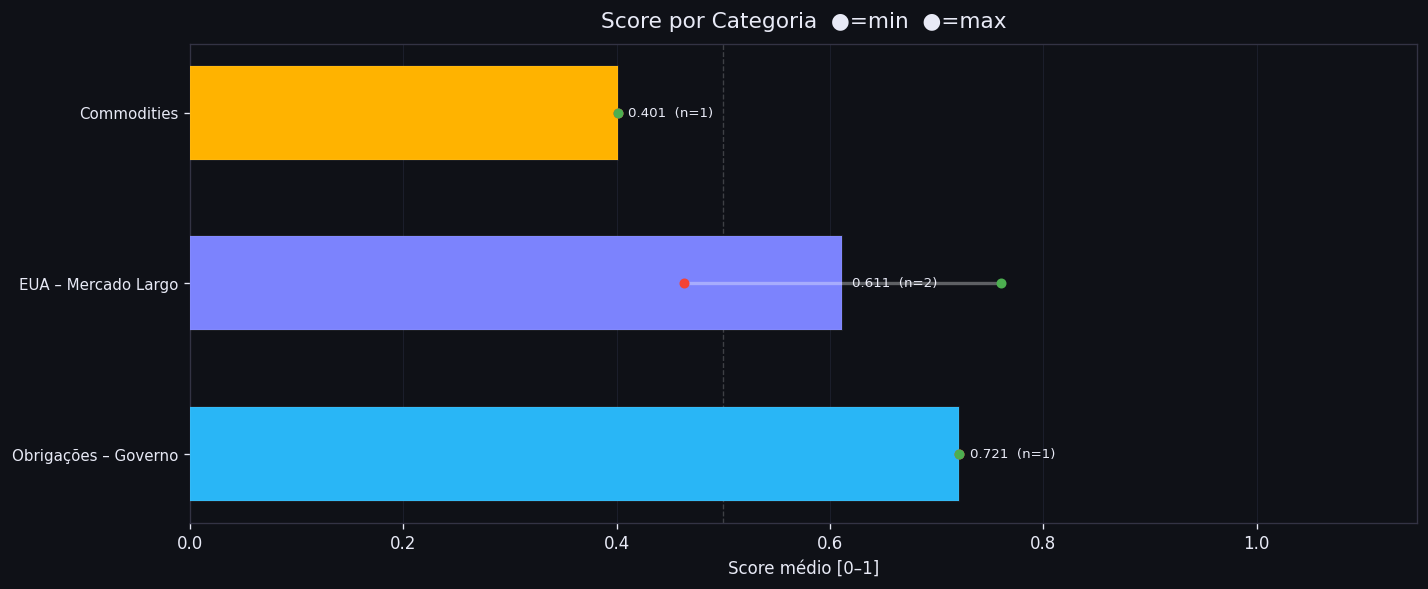
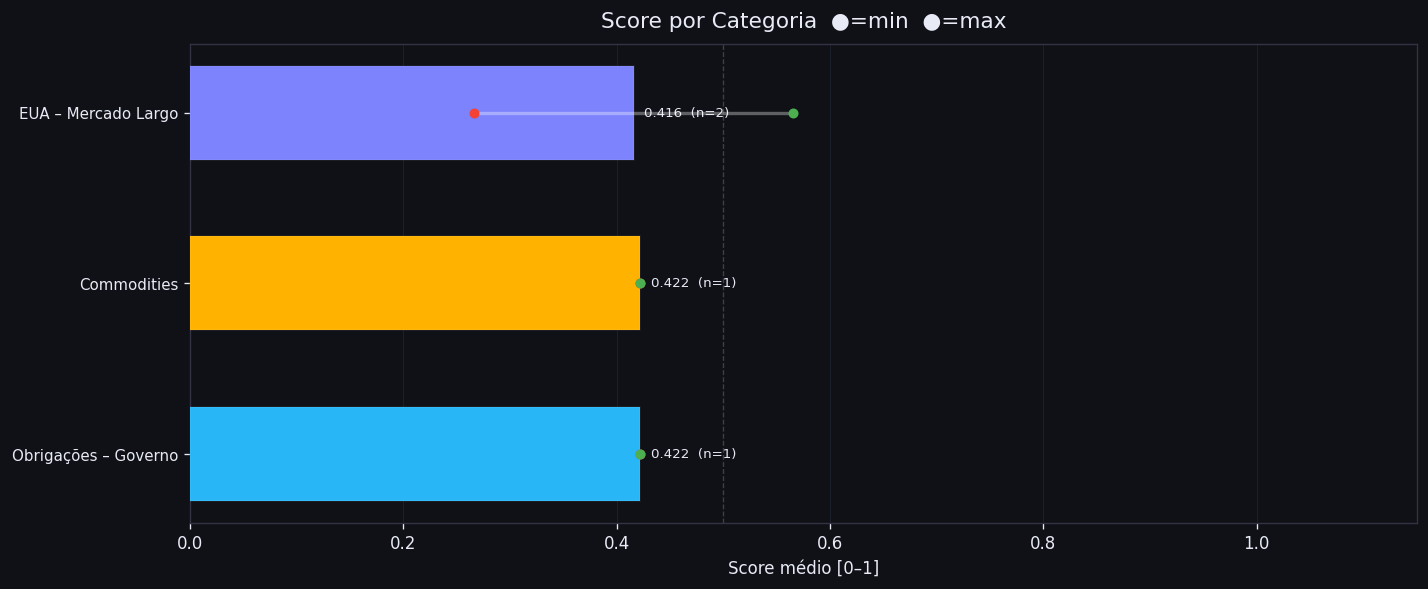
chore: resolver conflitos em data/ após rebase (dados de exemplo locais)

Changed region(s): [[0.0, 0.3973, 0.7087, 0.5806], [0.0, 0.0917, 0.5546, 0.275], [0.4314, 0.6723, 0.7395, 0.8557]]

diff --git a/data/reports/daily_20260525.html b/data/reports/daily_20260525.html
@@ -12,41 +12,24 @@
       Sinais de Compra – Próximas Semanas
     </h2>
     <p style="color:#666;font-size:12px;margin-top:-8px">
-      ETFs com confluência de indicadores técnicos favoráveis · <span style="color:#4caf50;font-weight:bold">2 FORTE COMPRA</span> · <span style="color:#8bc34a">0 COMPRA</span> · <span style="color:#ffd54f">0 POTENCIAL</span> — de 4 ETFs analisados
+      ETFs com confluência de indicadores técnicos favoráveis · <span style="color:#4caf50;font-weight:bold">0 FORTE COMPRA</span> · <span style="color:#8bc34a">1 COMPRA</span> · <span style="color:#ffd54f">0 POTENCIAL</span> — de 4 ETFs analisados
     </p>
     
-        <div style="background:#1b3a2a;border-left:4px solid #4caf50;
+        <div style="background:#1e2f1a;border-left:4px solid #8bc34a;
                     padding:14px 18px;margin:8px 0;border-radius:4px">
           <div style="display:flex;justify-content:space-between;align-items:center;flex-wrap:wrap;gap:8px">
             <div>
-              <span style="color:#e8eaf6;font-size:19px;font-weight:bold">TLT</span>
-              <span style="color:#888;font-size:11px;margin-left:8px">20+ Year Treasury (iShares)</span>
-              &nbsp;<span style="background:#4caf50;color:#000;padding:3px 10px;border-radius:12px;font-size:11px;font-weight:bold;letter-spacing:0.5px">FORTE COMPRA</span>
-              <span style="color:#29b6f6;font-size:11px;margin-left:10px">● Obrigações – Governo</span>
-            </div>
-          </div>
-          <div style="color:#bbb;font-size:12px;margin-top:8px;line-height:1.6">
-            Tendência e momentum alinhados (sma20>sma50, macd+). entrada não comprometida (ret. semanal 1.3%). rsi em zona óptima de entrada (56).
-          </div>
-          <div style="margin-top:8px;font-size:12px">
-            <span style="color:#aaa">Score:</span> <span style="color:#4caf50;font-weight:bold">0.721</span>&nbsp;&nbsp;<span style="color:#aaa">Ret. 3M:</span> <span style="color:#4caf50">9.22%</span>&nbsp;&nbsp;<span style="color:#aaa">Ret. 5d:</span> <span style="color:#4caf50">1.25%</span>&nbsp;&nbsp;<span style="color:#aaa">RSI:</span> <span style="color:#4caf50">56</span>&nbsp;&nbsp;<span style="color:#aaa">RS vs SPY:</span> <span style="color:#4caf50">✓ superando SPY</span>&nbsp;&nbsp;<span style="color:#aaa">Δ Score:</span> <span style="color:#f44336">+nan</span>&nbsp;&nbsp;<span style="color:#aaa">Drawdown:</span> <span style="color:#4caf50">-0.7%</span>
-          </div>
-        </div>
-        <div style="background:#1b3a2a;border-left:4px solid #4caf50;
-                    padding:14px 18px;margin:8px 0;border-radius:4px">
-          <div style="display:flex;justify-content:space-between;align-items:center;flex-wrap:wrap;gap:8px">
-            <div>
-              <span style="color:#e8eaf6;font-size:19px;font-weight:bold">QQQ</span>
-              <span style="color:#888;font-size:11px;margin-left:8px">Nasdaq 100 (Invesco)</span>
-              &nbsp;<span style="background:#4caf50;color:#000;padding:3px 10px;border-radius:12px;font-size:11px;font-weight:bold;letter-spacing:0.5px">FORTE COMPRA</span>
+              <span style="color:#e8eaf6;font-size:19px;font-weight:bold">IVV</span>
+              <span style="color:#888;font-size:11px;margin-left:8px">S&P 500 (iShares Core)</span>
+              &nbsp;<span style="background:#8bc34a;color:#000;padding:3px 10px;border-radius:12px;font-size:11px;font-weight:bold;letter-spacing:0.5px">COMPRA</span>
               <span style="color:#7c83fd;font-size:11px;margin-left:10px">● EUA – Mercado Largo</span>
             </div>
           </div>
           <div style="color:#bbb;font-size:12px;margin-top:8px;line-height:1.6">
-            Tendência e momentum alinhados (sma20>sma50, macd+). entrada não comprometida (ret. semanal 2.7%). força relativa positiva vs spy (últimos 21 dias).
+            Tendência e momentum alinhados (sma20>sma50, macd+). entrada não comprometida (ret. semanal 0.9%). rsi em zona óptima de entrada (53).
           </div>
           <div style="margin-top:8px;font-size:12px">
-            <span style="color:#aaa">Score:</span> <span style="color:#4caf50;font-weight:bold">0.760</span>&nbsp;&nbsp;<span style="color:#aaa">Ret. 3M:</span> <span style="color:#4caf50">13.77%</span>&nbsp;&nbsp;<span style="color:#aaa">Ret. 5d:</span> <span style="color:#4caf50">2.67%</span>&nbsp;&nbsp;<span style="color:#aaa">RSI:</span> <span style="color:#4caf50">60</span>&nbsp;&nbsp;<span style="color:#aaa">RS vs SPY:</span> <span style="color:#4caf50">✓ superando SPY</span>&nbsp;&nbsp;<span style="color:#aaa">Δ Score:</span> <span style="color:#f44336">+nan</span>&nbsp;&nbsp;<span style="color:#aaa">Drawdown:</span> <span style="color:#4caf50">-0.2%</span>
+            <span style="color:#aaa">Score:</span> <span style="color:#4caf50;font-weight:bold">0.565</span>&nbsp;&nbsp;<span style="color:#aaa">Ret. 3M:</span> <span style="color:#f44336">-5.21%</span>&nbsp;&nbsp;<span style="color:#aaa">Ret. 5d:</span> <span style="color:#4caf50">0.89%</span>&nbsp;&nbsp;<span style="color:#aaa">RSI:</span> <span style="color:#4caf50">53</span>&nbsp;&nbsp;<span style="color:#aaa">RS vs SPY:</span> <span style="color:#f44336">✗ abaixo SPY</span>&nbsp;&nbsp;<span style="color:#aaa">Δ Score:</span> <span style="color:#f44336">+nan</span>&nbsp;&nbsp;<span style="color:#aaa">Drawdown:</span> <span style="color:#f44336">-9.4%</span>
           </div>
         </div>
   </div>
@@ -66,7 +49,7 @@
         </td>
         <td style="width:34%;vertical-align:top;padding:8px;border-left:1px solid #1e2130">
           <div style="color:#78909c;font-size:12px;font-weight:bold;margin-bottom:6px">→ NEUTRO</div>
-          <span style="background:#1a1d2e;border:1px solid #29b6f6;color:#29b6f6;padding:4px 10px;border-radius:12px;font-size:11px;margin:3px;display:inline-block">→ Obrigações – Governo <span style="color:#666">(0.72)</span></span><span style="background:#1a1d2e;border:1px solid #7c83fd;color:#7c83fd;padding:4px 10px;border-radius:12px;font-size:11px;margin:3px;display:inline-block">→ EUA – Mercado Largo <span style="color:#666">(0.61)</span></span><span style="background:#1a1d2e;border:1px solid #ffb300;color:#ffb300;padding:4px 10px;border-radius:12px;font-size:11px;margin:3px;display:inline-block">→ Commodities <span style="color:#666">(0.40)</span></span>
+          <span style="background:#1a1d2e;border:1px solid #29b6f6;color:#29b6f6;padding:4px 10px;border-radius:12px;font-size:11px;margin:3px;display:inline-block">→ Obrigações – Governo <span style="color:#666">(0.42)</span></span><span style="background:#1a1d2e;border:1px solid #ffb300;color:#ffb300;padding:4px 10px;border-radius:12px;font-size:11px;margin:3px;display:inline-block">→ Commodities <span style="color:#666">(0.42)</span></span><span style="background:#1a1d2e;border:1px solid #7c83fd;color:#7c83fd;padding:4px 10px;border-radius:12px;font-size:11px;margin:3px;display:inline-block">→ EUA – Mercado Largo <span style="color:#666">(0.41)</span></span>
         </td>
         <td style="width:33%;vertical-align:top;padding:8px;border-left:1px solid #1e2130">
           <div style="color:#f44336;font-size:12px;font-weight:bold;margin-bottom:6px">▼ MOMENTUM NEGATIVO</div>
@@ -85,7 +68,7 @@
   <!-- RESUMO POR CATEGORIA -->
   <div style="background:#0d1021;border-radius:8px;padding:20px;margin:20px 0">
     <h2 style="color:#7c83fd;margin-top:0;font-size:16px">Resumo por Categoria</h2>
-    <table style="border-collapse:collapse;width:100%;background:#0f1117"><thead><tr><th style="background:#0d1021;color:#7c83fd;padding:7px 12px;text-align:right;font-size:12px">Categoria</th><th style="background:#0d1021;color:#7c83fd;padding:7px 12px;text-align:right;font-size:12px">N</th><th style="background:#0d1021;color:#7c83fd;padding:7px 12px;text-align:right;font-size:12px">Score Méd.</th><th style="background:#0d1021;color:#7c83fd;padding:7px 12px;text-align:right;font-size:12px">Δ Score</th><th style="background:#0d1021;color:#7c83fd;padding:7px 12px;text-align:right;font-size:12px">Mom.</th><th style="background:#0d1021;color:#7c83fd;padding:7px 12px;text-align:right;font-size:12px">Ret. Dia</th><th style="background:#0d1021;color:#7c83fd;padding:7px 12px;text-align:right;font-size:12px">Melhor</th><th style="background:#0d1021;color:#7c83fd;padding:7px 12px;text-align:right;font-size:12px">Pior</th></tr></thead><tbody><tr><td style="padding:6px 12px;border-bottom:1px solid #0d1021;text-align:right;font-size:12px;color:#29b6f6;text-align:left">Obrigações – Governo</td><td style="padding:6px 12px;border-bottom:1px solid #0d1021;text-align:right;font-size:12px;color:#666">1</td><td style="padding:6px 12px;border-bottom:1px solid #0d1021;text-align:right;font-size:12px;color:#4caf50;font-weight:bold">0.721</td><td style="padding:6px 12px;border-bottom:1px solid #0d1021;text-align:right;font-size:12px;color:#f44336">+nan</td><td style="padding:6px 12px;border-bottom:1px solid #0d1021;text-align:right;font-size:12px;color:#78909c;font-size:16px">→</td><td style="padding:6px 12px;border-bottom:1px solid #0d1021;text-align:right;font-size:12px;color:#4caf50">0.32%</td><td style="padding:6px 12px;border-bottom:1px solid #0d1021;text-align:right;font-size:12px;color:#4caf50">0.721</td><td style="padding:6px 12px;border-bottom:1px solid #0d1021;text-align:right;font-size:12px;color:#f44336">0.721</td></tr><tr><td style="padding:6px 12px;border-bottom:1px solid #0d1021;text-align:right;font-size:12px;color:#7c83fd;text-align:left">EUA – Mercado Largo</td><td style="padding:6px 12px;border-bottom:1px solid #0d1021;text-align:right;font-size:12px;color:#666">2</td><td style="padding:6px 12px;border-bottom:1px solid #0d1021;text-align:right;font-size:12px;color:#4caf50;font-weight:bold">0.612</td><td style="padding:6px 12px;border-bottom:1px solid #0d1021;text-align:right;font-size:12px;color:#f44336">+nan</td><td style="padding:6px 12px;border-bottom:1px solid #0d1021;text-align:right;font-size:12px;color:#78909c;font-size:16px">→</td><td style="padding:6px 12px;border-bottom:1px solid #0d1021;text-align:right;font-size:12px;color:#4caf50">1.37%</td><td style="padding:6px 12px;border-bottom:1px solid #0d1021;text-align:right;font-size:12px;color:#4caf50">0.760</td><td style="padding:6px 12px;border-bottom:1px solid #0d1021;text-align:right;font-size:12px;color:#f44336">0.463</td></tr><tr><td style="padding:6px 12px;border-bottom:1px solid #0d1021;text-align:right;font-size:12px;color:#ffb300;text-align:left">Commodities</td><td style="padding:6px 12px;border-bottom:1px solid #0d1021;text-align:right;font-size:12px;color:#666">1</td><td style="padding:6px 12px;border-bottom:1px solid #0d1021;text-align:right;font-size:12px;color:#f44336;font-weight:bold">0.401</td><td style="padding:6px 12px;border-bottom:1px solid #0d1021;text-align:right;font-size:12px;color:#f44336">+nan</td><td style="padding:6px 12px;border-bottom:1px solid #0d1021;text-align:right;font-size:12px;color:#78909c;font-size:16px">→</td><td style="padding:6px 12px;border-bottom:1px solid #0d1021;text-align:right;font-size:12px;color:#4caf50">0.48%</td><td style="padding:6px 12px;border-bottom:1px solid #0d1021;text-align:right;font-size:12px;color:#4caf50">0.401</td><td style="padding:6px 12px;border-bottom:1px solid #0d1021;text-align:right;font-size:12px;color:#f44336">0.401</td></tr></tbody></table>
+    <table style="border-collapse:collapse;width:100%;background:#0f1117"><thead><tr><th style="background:#0d1021;color:#7c83fd;padding:7px 12px;text-align:right;font-size:12px">Categoria</th><th style="background:#0d1021;color:#7c83fd;padding:7px 12px;text-align:right;font-size:12px">N</th><th style="background:#0d1021;color:#7c83fd;padding:7px 12px;text-align:right;font-size:12px">Score Méd.</th><th style="background:#0d1021;color:#7c83fd;padding:7px 12px;text-align:right;font-size:12px">Δ Score</th><th style="background:#0d1021;color:#7c83fd;padding:7px 12px;text-align:right;font-size:12px">Mom.</th><th style="background:#0d1021;color:#7c83fd;padding:7px 12px;text-align:right;font-size:12px">Ret. Dia</th><th style="background:#0d1021;color:#7c83fd;padding:7px 12px;text-align:right;font-size:12px">Melhor</th><th style="background:#0d1021;color:#7c83fd;padding:7px 12px;text-align:right;font-size:12px">Pior</th></tr></thead><tbody><tr><td style="padding:6px 12px;border-bottom:1px solid #0d1021;text-align:right;font-size:12px;color:#29b6f6;text-align:left">Obrigações – Governo</td><td style="padding:6px 12px;border-bottom:1px solid #0d1021;text-align:right;font-size:12px;color:#666">1</td><td style="padding:6px 12px;border-bottom:1px solid #0d1021;text-align:right;font-size:12px;color:#f44336;font-weight:bold">0.422</td><td style="padding:6px 12px;border-bottom:1px solid #0d1021;text-align:right;font-size:12px;color:#f44336">+nan</td><td style="padding:6px 12px;border-bottom:1px solid #0d1021;text-align:right;font-size:12px;color:#78909c;font-size:16px">→</td><td style="padding:6px 12px;border-bottom:1px solid #0d1021;text-align:right;font-size:12px;color:#4caf50">0.00%</td><td style="padding:6px 12px;border-bottom:1px solid #0d1021;text-align:right;font-size:12px;color:#4caf50">0.422</td><td style="padding:6px 12px;border-bottom:1px solid #0d1021;text-align:right;font-size:12px;color:#f44336">0.422</td></tr><tr><td style="padding:6px 12px;border-bottom:1px solid #0d1021;text-align:right;font-size:12px;color:#ffb300;text-align:left">Commodities</td><td style="padding:6px 12px;border-bottom:1px solid #0d1021;text-align:right;font-size:12px;color:#666">1</td><td style="padding:6px 12px;border-bottom:1px solid #0d1021;text-align:right;font-size:12px;color:#f44336;font-weight:bold">0.422</td><td style="padding:6px 12px;border-bottom:1px solid #0d1021;text-align:right;font-size:12px;color:#f44336">+nan</td><td style="padding:6px 12px;border-bottom:1px solid #0d1021;text-align:right;font-size:12px;color:#78909c;font-size:16px">→</td><td style="padding:6px 12px;border-bottom:1px solid #0d1021;text-align:right;font-size:12px;color:#4caf50">0.00%</td><td style="padding:6px 12px;border-bottom:1px solid #0d1021;text-align:right;font-size:12px;color:#4caf50">0.422</td><td style="padding:6px 12px;border-bottom:1px solid #0d1021;text-align:right;font-size:12px;color:#f44336">0.422</td></tr><tr><td style="padding:6px 12px;border-bottom:1px solid #0d1021;text-align:right;font-size:12px;color:#7c83fd;text-align:left">EUA – Mercado Largo</td><td style="padding:6px 12px;border-bottom:1px solid #0d1021;text-align:right;font-size:12px;color:#666">2</td><td style="padding:6px 12px;border-bottom:1px solid #0d1021;text-align:right;font-size:12px;color:#f44336;font-weight:bold">0.415</td><td style="padding:6px 12px;border-bottom:1px solid #0d1021;text-align:right;font-size:12px;color:#f44336">+nan</td><td style="padding:6px 12px;border-bottom:1px solid #0d1021;text-align:right;font-size:12px;color:#78909c;font-size:16px">→</td><td style="padding:6px 12px;border-bottom:1px solid #0d1021;text-align:right;font-size:12px;color:#4caf50">1.96%</td><td style="padding:6px 12px;border-bottom:1px solid #0d1021;text-align:right;font-size:12px;color:#4caf50">0.565</td><td style="padding:6px 12px;border-bottom:1px solid #0d1021;text-align:right;font-size:12px;color:#f44336">0.266</td></tr></tbody></table>
   </div>
 
   <!-- TABELA COMPLETA -->
@@ -96,7 +79,7 @@
         ordenados por score decrescente
       </span>
     </h2>
-    <table style="border-collapse:collapse;width:100%;background:#0f1117"><thead><tr><th style="background:#0d1021;color:#7c83fd;padding:6px 10px;text-align:right;font-size:11px;white-space:nowrap">ETF</th><th style="background:#0d1021;color:#7c83fd;padding:6px 10px;text-align:right;font-size:11px;white-space:nowrap">Nome</th><th style="background:#0d1021;color:#7c83fd;padding:6px 10px;text-align:right;font-size:11px;white-space:nowrap">Categoria</th><th style="background:#0d1021;color:#7c83fd;padding:6px 10px;text-align:right;font-size:11px;white-space:nowrap">Score</th><th style="background:#0d1021;color:#7c83fd;padding:6px 10px;text-align:right;font-size:11px;white-space:nowrap">Δ Score</th><th style="background:#0d1021;color:#7c83fd;padding:6px 10px;text-align:right;font-size:11px;white-space:nowrap">Ret. Dia</th><th style="background:#0d1021;color:#7c83fd;padding:6px 10px;text-align:right;font-size:11px;white-space:nowrap">Ret. 5d</th><th style="background:#0d1021;color:#7c83fd;padding:6px 10px;text-align:right;font-size:11px;white-space:nowrap">Ret. 3M</th><th style="background:#0d1021;color:#7c83fd;padding:6px 10px;text-align:right;font-size:11px;white-space:nowrap">RSI</th><th style="background:#0d1021;color:#7c83fd;padding:6px 10px;text-align:right;font-size:11px;white-space:nowrap">RS vs SPY</th><th style="background:#0d1021;color:#7c83fd;padding:6px 10px;text-align:right;font-size:11px;white-space:nowrap">Vol 21d</th><th style="background:#0d1021;color:#7c83fd;padding:6px 10px;text-align:right;font-size:11px;white-space:nowrap">Trend</th><th style="background:#0d1021;color:#7c83fd;padding:6px 10px;text-align:right;font-size:11px;white-space:nowrap">MACD</th></tr></thead><tbody><tr><td style="padding:4px 10px;border-bottom:1px solid #0d1021;font-size:11px;text-align:right;color:#e8eaf6;text-align:left"><span style="color:#7c83fd">●</span> QQQ</td><td style="padding:4px 10px;border-bottom:1px solid #0d1021;font-size:11px;text-align:right;color:#666;text-align:left;max-width:160px;overflow:hidden">Nasdaq 100 (Invesco)</td><td style="padding:4px 10px;border-bottom:1px solid #0d1021;font-size:11px;text-align:right;color:#7c83fd">EUA – Mercado Largo</td><td style="padding:4px 10px;border-bottom:1px solid #0d1021;font-size:11px;text-align:right;color:#4caf50;font-weight:bold">0.76</td><td style="padding:4px 10px;border-bottom:1px solid #0d1021;font-size:11px;text-align:right;color:#f44336">+nan</td><td style="padding:4px 10px;border-bottom:1px solid #0d1021;font-size:11px;text-align:right;color:#4caf50">1.33%</td><td style="padding:4px 10px;border-bottom:1px solid #0d1021;font-size:11px;text-align:right;color:#4caf50">2.67%</td><td style="padding:4px 10px;border-bottom:1px solid #0d1021;font-size:11px;text-align:right;color:#4caf50">13.77%</td><td style="padding:4px 10px;border-bottom:1px solid #0d1021;font-size:11px;text-align:right;color:#4caf50">60</td><td style="padding:4px 10px;border-bottom:1px solid #0d1021;font-size:11px;text-align:right;color:#4caf50">✓</td><td style="padding:4px 10px;border-bottom:1px solid #0d1021;font-size:11px;text-align:right;color:#e8eaf6">22.46%</td><td style="padding:4px 10px;border-bottom:1px solid #0d1021;font-size:11px;text-align:right;color:#aaa">↑</td><td style="padding:4px 10px;border-bottom:1px solid #0d1021;font-size:11px;text-align:right;color:#aaa">+</td></tr><tr><td style="padding:4px 10px;border-bottom:1px solid #0d1021;font-size:11px;text-align:right;color:#e8eaf6;text-align:left"><span style="color:#29b6f6">●</span> TLT</td><td style="padding:4px 10px;border-bottom:1px solid #0d1021;font-size:11px;text-align:right;color:#666;text-align:left;max-width:160px;overflow:hidden">20+ Year Treasury (iShares)</td><td style="padding:4px 10px;border-bottom:1px solid #0d1021;font-size:11px;text-align:right;color:#29b6f6">Obrigações – Governo</td><td style="padding:4px 10px;border-bottom:1px solid #0d1021;font-size:11px;text-align:right;color:#4caf50;font-weight:bold">0.721</td><td style="padding:4px 10px;border-bottom:1px solid #0d1021;font-size:11px;text-align:right;color:#f44336">+nan</td><td style="padding:4px 10px;border-bottom:1px solid #0d1021;font-size:11px;text-align:right;color:#4caf50">0.32%</td><td style="padding:4px 10px;border-bottom:1px solid #0d1021;font-size:11px;text-align:right;color:#4caf50">1.25%</td><td style="padding:4px 10px;border-bottom:1px solid #0d1021;font-size:11px;text-align:right;color:#4caf50">9.22%</td><td style="padding:4px 10px;border-bottom:1px solid #0d1021;font-size:11px;text-align:right;color:#4caf50">56</td><td style="padding:4px 10px;border-bottom:1px solid #0d1021;font-size:11px;text-align:right;color:#4caf50">✓</td><td style="padding:4px 10px;border-bottom:1px solid #0d1021;font-size:11px;text-align:right;color:#e8eaf6">20.94%</td><td style="padding:4px 10px;border-bottom:1px solid #0d1021;font-size:11px;text-align:right;color:#aaa">↑</td><td style="padding:4px 10px;border-bottom:1px solid #0d1021;font-size:11px;text-align:right;color:#aaa">+</td></tr><tr><td style="padding:4px 10px;border-bottom:1px solid #0d1021;font-size:11px;text-align:right;color:#e8eaf6;text-align:left"><span style="color:#7c83fd">●</span> IVV</td><td style="padding:4px 10px;border-bottom:1px solid #0d1021;font-size:11px;text-align:right;color:#666;text-align:left;max-width:160px;overflow:hidden">S&P 500 (iShares Core)</td><td style="padding:4px 10px;border-bottom:1px solid #0d1021;font-size:11px;text-align:right;color:#7c83fd">EUA – Mercado Largo</td><td style="padding:4px 10px;border-bottom:1px solid #0d1021;font-size:11px;text-align:right;color:#f44336;font-weight:bold">0.463</td><td style="padding:4px 10px;border-bottom:1px solid #0d1021;font-size:11px;text-align:right;color:#f44336">+nan</td><td style="padding:4px 10px;border-bottom:1px solid #0d1021;font-size:11px;text-align:right;color:#4caf50">1.40%</td><td style="padding:4px 10px;border-bottom:1px solid #0d1021;font-size:11px;text-align:right;color:#4caf50">3.50%</td><td style="padding:4px 10px;border-bottom:1px solid #0d1021;font-size:11px;text-align:right;color:#f44336">-10.81%</td><td style="padding:4px 10px;border-bottom:1px solid #0d1021;font-size:11px;text-align:right;color:#4caf50">56</td><td style="padding:4px 10px;border-bottom:1px solid #0d1021;font-size:11px;text-align:right;color:#4caf50">✓</td><td style="padding:4px 10px;border-bottom:1px solid #0d1021;font-size:11px;text-align:right;color:#e8eaf6">20.35%</td><td style="padding:4px 10px;border-bottom:1px solid #0d1021;font-size:11px;text-align:right;color:#aaa">↓</td><td style="padding:4px 10px;border-bottom:1px solid #0d1021;font-size:11px;text-align:right;color:#aaa">+</td></tr><tr><td style="padding:4px 10px;border-bottom:1px solid #0d1021;font-size:11px;text-align:right;color:#e8eaf6;text-align:left"><span style="color:#ffb300">●</span> GLD</td><td style="padding:4px 10px;border-bottom:1px solid #0d1021;font-size:11px;text-align:right;color:#666;text-align:left;max-width:160px;overflow:hidden">Gold (SPDR)</td><td style="padding:4px 10px;border-bottom:1px solid #0d1021;font-size:11px;text-align:right;color:#ffb300">Commodities</td><td style="padding:4px 10px;border-bottom:1px solid #0d1021;font-size:11px;text-align:right;color:#f44336;font-weight:bold">0.401</td><td style="padding:4px 10px;border-bottom:1px solid #0d1021;font-size:11px;text-align:right;color:#f44336">+nan</td><td style="padding:4px 10px;border-bottom:1px solid #0d1021;font-size:11px;text-align:right;color:#4caf50">0.48%</td><td style="padding:4px 10px;border-bottom:1px solid #0d1021;font-size:11px;text-align:right;color:#f44336">-0.99%</td><td style="padding:4px 10px;border-bottom:1px solid #0d1021;font-size:11px;text-align:right;color:#f44336">-0.78%</td><td style="padding:4px 10px;border-bottom:1px solid #0d1021;font-size:11px;text-align:right;color:#4caf50">46</td><td style="padding:4px 10px;border-bottom:1px solid #0d1021;font-size:11px;text-align:right;color:#f44336">✗</td><td style="padding:4px 10px;border-bottom:1px solid #0d1021;font-size:11px;text-align:right;color:#e8eaf6">12.95%</td><td style="padding:4px 10px;border-bottom:1px solid #0d1021;font-size:11px;text-align:right;color:#aaa">↑</td><td style="padding:4px 10px;border-bottom:1px solid #0d1021;font-size:11px;text-align:right;color:#aaa">−</td></tr></tbody></table>
+    <table style="border-collapse:collapse;width:100%;background:#0f1117"><thead><tr><th style="background:#0d1021;color:#7c83fd;padding:6px 10px;text-align:right;font-size:11px;white-space:nowrap">ETF</th><th style="background:#0d1021;color:#7c83fd;padding:6px 10px;text-align:right;font-size:11px;white-space:nowrap">Nome</th><th style="background:#0d1021;color:#7c83fd;padding:6px 10px;text-align:right;font-size:11px;white-space:nowrap">Categoria</th><th style="background:#0d1021;color:#7c83fd;padding:6px 10px;text-align:right;font-size:11px;white-space:nowrap">Score</th><th style="background:#0d1021;color:#7c83fd;padding:6px 10px;text-align:right;font-size:11px;white-space:nowrap">Δ Score</th><th style="background:#0d1021;color:#7c83fd;padding:6px 10px;text-align:right;font-size:11px;white-space:nowrap">Ret. Dia</th><th style="background:#0d1021;color:#7c83fd;padding:6px 10px;text-align:right;font-size:11px;white-space:nowrap">Ret. 5d</th><th style="background:#0d1021;color:#7c83fd;padding:6px 10px;text-align:right;font-size:11px;white-space:nowrap">Ret. 3M</th><th style="background:#0d1021;color:#7c83fd;padding:6px 10px;text-align:right;font-size:11px;white-space:nowrap">RSI</th><th style="background:#0d1021;color:#7c83fd;padding:6px 10px;text-align:right;font-size:11px;white-space:nowrap">RS vs SPY</th><th style="background:#0d1021;color:#7c83fd;padding:6px 10px;text-align:right;font-size:11px;white-space:nowrap">Vol 21d</th><th style="background:#0d1021;color:#7c83fd;padding:6px 10px;text-align:right;font-size:11px;white-space:nowrap">Trend</th><th style="background:#0d1021;color:#7c83fd;padding:6px 10px;text-align:right;font-size:11px;white-space:nowrap">MACD</th></tr></thead><tbody><tr><td style="padding:4px 10px;border-bottom:1px solid #0d1021;font-size:11px;text-align:right;color:#e8eaf6;text-align:left"><span style="color:#7c83fd">●</span> IVV</td><td style="padding:4px 10px;border-bottom:1px solid #0d1021;font-size:11px;text-align:right;color:#666;text-align:left;max-width:160px;overflow:hidden">S&P 500 (iShares Core)</td><td style="padding:4px 10px;border-bottom:1px solid #0d1021;font-size:11px;text-align:right;color:#7c83fd">EUA – Mercado Largo</td><td style="padding:4px 10px;border-bottom:1px solid #0d1021;font-size:11px;text-align:right;color:#4caf50;font-weight:bold">0.565</td><td style="padding:4px 10px;border-bottom:1px solid #0d1021;font-size:11px;text-align:right;color:#f44336">+nan</td><td style="padding:4px 10px;border-bottom:1px solid #0d1021;font-size:11px;text-align:right;color:#4caf50">0.72%</td><td style="padding:4px 10px;border-bottom:1px solid #0d1021;font-size:11px;text-align:right;color:#4caf50">0.89%</td><td style="padding:4px 10px;border-bottom:1px solid #0d1021;font-size:11px;text-align:right;color:#f44336">-5.21%</td><td style="padding:4px 10px;border-bottom:1px solid #0d1021;font-size:11px;text-align:right;color:#4caf50">53</td><td style="padding:4px 10px;border-bottom:1px solid #0d1021;font-size:11px;text-align:right;color:#f44336">✗</td><td style="padding:4px 10px;border-bottom:1px solid #0d1021;font-size:11px;text-align:right;color:#e8eaf6">20.85%</td><td style="padding:4px 10px;border-bottom:1px solid #0d1021;font-size:11px;text-align:right;color:#aaa">↑</td><td style="padding:4px 10px;border-bottom:1px solid #0d1021;font-size:11px;text-align:right;color:#aaa">+</td></tr><tr><td style="padding:4px 10px;border-bottom:1px solid #0d1021;font-size:11px;text-align:right;color:#e8eaf6;text-align:left"><span style="color:#29b6f6">●</span> TLT</td><td style="padding:4px 10px;border-bottom:1px solid #0d1021;font-size:11px;text-align:right;color:#666;text-align:left;max-width:160px;overflow:hidden">20+ Year Treasury (iShares)</td><td style="padding:4px 10px;border-bottom:1px solid #0d1021;font-size:11px;text-align:right;color:#29b6f6">Obrigações – Governo</td><td style="padding:4px 10px;border-bottom:1px solid #0d1021;font-size:11px;text-align:right;color:#f44336;font-weight:bold">0.422</td><td style="padding:4px 10px;border-bottom:1px solid #0d1021;font-size:11px;text-align:right;color:#f44336">+nan</td><td style="padding:4px 10px;border-bottom:1px solid #0d1021;font-size:11px;text-align:right;color:#4caf50">0.00%</td><td style="padding:4px 10px;border-bottom:1px solid #0d1021;font-size:11px;text-align:right;color:#4caf50">0.00%</td><td style="padding:4px 10px;border-bottom:1px solid #0d1021;font-size:11px;text-align:right;color:#4caf50">0.00%</td><td style="padding:4px 10px;border-bottom:1px solid #0d1021;font-size:11px;text-align:right;color:#4caf50">50</td><td style="padding:4px 10px;border-bottom:1px solid #0d1021;font-size:11px;text-align:right;color:#f44336">✗</td><td style="padding:4px 10px;border-bottom:1px solid #0d1021;font-size:11px;text-align:right;color:#e8eaf6">0.00%</td><td style="padding:4px 10px;border-bottom:1px solid #0d1021;font-size:11px;text-align:right;color:#aaa">↓</td><td style="padding:4px 10px;border-bottom:1px solid #0d1021;font-size:11px;text-align:right;color:#aaa">−</td></tr><tr><td style="padding:4px 10px;border-bottom:1px solid #0d1021;font-size:11px;text-align:right;color:#e8eaf6;text-align:left"><span style="color:#ffb300">●</span> GLD</td><td style="padding:4px 10px;border-bottom:1px solid #0d1021;font-size:11px;text-align:right;color:#666;text-align:left;max-width:160px;overflow:hidden">Gold (SPDR)</td><td style="padding:4px 10px;border-bottom:1px solid #0d1021;font-size:11px;text-align:right;color:#ffb300">Commodities</td><td style="padding:4px 10px;border-bottom:1px solid #0d1021;font-size:11px;text-align:right;color:#f44336;font-weight:bold">0.422</td><td style="padding:4px 10px;border-bottom:1px solid #0d1021;font-size:11px;text-align:right;color:#f44336">+nan</td><td style="padding:4px 10px;border-bottom:1px solid #0d1021;font-size:11px;text-align:right;color:#4caf50">0.00%</td><td style="padding:4px 10px;border-bottom:1px solid #0d1021;font-size:11px;text-align:right;color:#4caf50">0.00%</td><td style="padding:4px 10px;border-bottom:1px solid #0d1021;font-size:11px;text-align:right;color:#4caf50">0.00%</td><td style="padding:4px 10px;border-bottom:1px solid #0d1021;font-size:11px;text-align:right;color:#4caf50">50</td><td style="padding:4px 10px;border-bottom:1px solid #0d1021;font-size:11px;text-align:right;color:#f44336">✗</td><td style="padding:4px 10px;border-bottom:1px solid #0d1021;font-size:11px;text-align:right;color:#e8eaf6">0.00%</td><td style="padding:4px 10px;border-bottom:1px solid #0d1021;font-size:11px;text-align:right;color:#aaa">↓</td><td style="padding:4px 10px;border-bottom:1px solid #0d1021;font-size:11px;text-align:right;color:#aaa">−</td></tr><tr><td style="padding:4px 10px;border-bottom:1px solid #0d1021;font-size:11px;text-align:right;color:#e8eaf6;text-align:left"><span style="color:#7c83fd">●</span> QQQ</td><td style="padding:4px 10px;border-bottom:1px solid #0d1021;font-size:11px;text-align:right;color:#666;text-align:left;max-width:160px;overflow:hidden">Nasdaq 100 (Invesco)</td><td style="padding:4px 10px;border-bottom:1px solid #0d1021;font-size:11px;text-align:right;color:#7c83fd">EUA – Mercado Largo</td><td style="padding:4px 10px;border-bottom:1px solid #0d1021;font-size:11px;text-align:right;color:#f44336;font-weight:bold">0.266</td><td style="padding:4px 10px;border-bottom:1px solid #0d1021;font-size:11px;text-align:right;color:#f44336">+nan</td><td style="padding:4px 10px;border-bottom:1px solid #0d1021;font-size:11px;text-align:right;color:#4caf50">3.20%</td><td style="padding:4px 10px;border-bottom:1px solid #0d1021;font-size:11px;text-align:right;color:#4caf50">0.62%</td><td style="padding:4px 10px;border-bottom:1px solid #0d1021;font-size:11px;text-align:right;color:#f44336">-6.70%</td><td style="padding:4px 10px;border-bottom:1px solid #0d1021;font-size:11px;text-align:right;color:#4caf50">44</td><td style="padding:4px 10px;border-bottom:1px solid #0d1021;font-size:11px;text-align:right;color:#f44336">✗</td><td style="padding:4px 10px;border-bottom:1px solid #0d1021;font-size:11px;text-align:right;color:#e8eaf6">21.91%</td><td style="padding:4px 10px;border-bottom:1px solid #0d1021;font-size:11px;text-align:right;color:#aaa">↓</td><td style="padding:4px 10px;border-bottom:1px solid #0d1021;font-size:11px;text-align:right;color:#aaa">−</td></tr></tbody></table>
   </div>
 
   <hr style="border-color:#1e2130;margin-top:32px">
